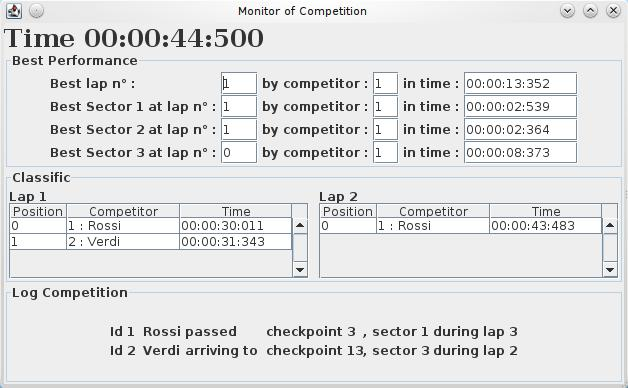
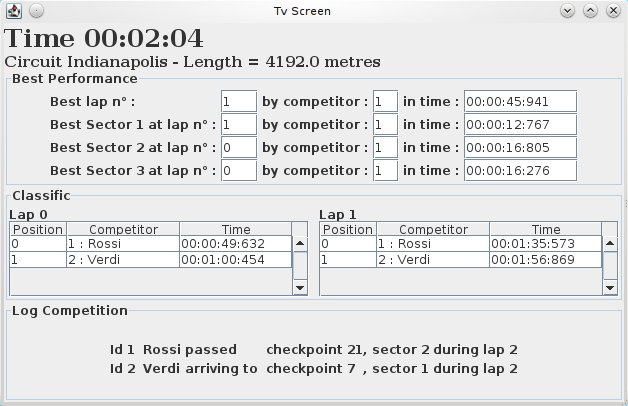
modifiche alla relazione e alla gui

diff --git a/src/java/GUI/TV/screenTv.java b/src/java/GUI/TV/screenTv.java
@@ -160,7 +160,7 @@ public class ScreenTv extends Thread implements TvPanelInterface{
 
     public void run(){
 	readConfiguration();
-	String circuit = new String("Circuit "+circuitName+" - Lenght = "+lenghtCircuit+" metres");
+	String circuit = new String("Circuit "+circuitName+" - Length = "+lenghtCircuit+" metres");
 	classTable.addTables(model_1, model_2, numComp);
 	best.addBest(circuit);
 	addLogInfo();
@@ -228,7 +228,7 @@ public class ScreenTv extends Thread implements TvPanelInterface{
 		    org.omg.CORBA.StringHolder updateString = new org.omg.CORBA.StringHolder();
 		    arrayInfo = monitor.Get_CompetitionInfo(updTime, updateString);
 		    readXml(updateString.value);
-		    best.setClock("Time "+convert(updTime));
+		    best.setClock("Time "+convertNoMill(updTime));
 		    // ho le tabelle completate , datiArray contiene i dati relativi alla classifica mentre datiArrayDoppiati contiene i dati dei doppiati.
 		    int index= 0;
 		    try{
@@ -654,6 +654,54 @@ public class ScreenTv extends Thread implements TvPanelInterface{
 	return time;
     }
 
+ public String convertNoMill(float timeIn){
+
+	int ore = (int)(timeIn/3600);
+	int minuti = (int)(timeIn/60)-(60*ore);
+	int secondi = (int)(timeIn-(minuti*60+ore*3600));
+// 	int millesimi = (int)((timeIn - (minuti*60+ore*3600+secondi))*1000);
+	//int decimi = (int)((timeIn - (minuti*60+ore*3600+secondi))*10);
+	String time;
+	if(minuti<10){
+	    if(secondi <10){
+// 		if(millesimi<10){
+// 		   time = new String("0"+ore+":0"+minuti+":0"+secondi+":00"+millesimi);}
+// 		else if(millesimi<100){
+// 		   time = new String("0"+ore+":0"+minuti+":0"+secondi+":0"+millesimi);}
+// 		else{
+		    time = new String("0"+ore+":0"+minuti+":0"+secondi);//+":"+millesimi);}
+	    }
+	    else{/*
+		if(millesimi<10){
+		   time = new String("0"+ore+":0"+minuti+":"+secondi+":00"+millesimi);}
+		else if(millesimi<100){
+		   time = new String("0"+ore+":0"+minuti+":"+secondi+":0"+millesimi);}
+		else{*/
+		    time = new String("0"+ore+":0"+minuti+":"+secondi);//+":"+millesimi);}
+	    }
+	}
+	else{
+	    if(secondi <10){
+// 		if(millesimi<10){
+// 		   time = new String("0"+ore+":"+minuti+":0"+secondi+":00"+millesimi);}
+// 		else if(millesimi<100){
+// 		   time = new String("0"+ore+":"+minuti+":0"+secondi+":0"+millesimi);}
+// 		else{
+		    time = new String("0"+ore+":"+minuti+":0"+secondi);//+":"+millesimi);}
+	    }
+	    else{
+// 		if(millesimi<10){
+// 		   time = new String("0"+ore+":"+minuti+":"+secondi+":00"+millesimi);}
+// 		else if(millesimi<100){
+// 		   time = new String("0"+ore+":"+minuti+":"+secondi+":0"+millesimi);}
+// 		else{
+		    time = new String("0"+ore+":"+minuti+":"+secondi);//+":"+millesimi);}
+	    }}
+
+	return time;
+    }
+
+
 }
 
 class dati{
@@ -786,7 +834,7 @@ class bestPerformance{
     private JLabel labelSector3Id = new JLabel(" by competitor : ");
     private JLabel labelSector3Time = new JLabel(" in time : ");
 
-    private JLabel labelClock = new JLabel("Time 00:00:00:000");
+    private JLabel labelClock = new JLabel("Time 00:00:00");
     private JLabel labelCircuit;
 
     public JPanel getInfoUp(){

diff --git a/documents/Relazione/manuale_utente.tex b/documents/Relazione/manuale_utente.tex
@@ -121,6 +121,7 @@ Una volta settati i parameteri e schiacciato il pulsante \emph{Start Competition
 \label{interfacciaTv}
 L'interfaccia della tv consiste in un pannello iniziale con al suo interno un cronometro che scandisce il tempo di aggiornamento delle informazioni seguito da un pannello con le informazioni sul miglior giro e sui migliori tempi nei settori.
 L'intervallo per il tempo che scorre \`{e} impostabile se si tratta di una tv configurata tramite il \emph{TvConfigurationWindow}, prestabilito (e molto basso) se si tratta della tv avviata dalla competizione. Il formato della stringa di refresh dev'essere \emph{secondi . millisecondi}.
+Questo tempo che scorre \`{e} tempo relativo alla competizione e quindi solidale con il resto del sistema.
 Il pannello centrale offre la visualizzazione di due tabelle. La tabella a destra si riferisce all'ultima classifica disponibile mentre a sinistra viene visualizzata la classifica del giro precedente (escluso al primo giro di gara dove viene presentata una tabella vuota).
 Nella parte bassa della finestra viene presentato un log della competizione rappresentando a ogni istante di tempo posizione nella pista, numero di checkpoint, numero di settore e giro per ogni concorrente.
 \begin{center}
